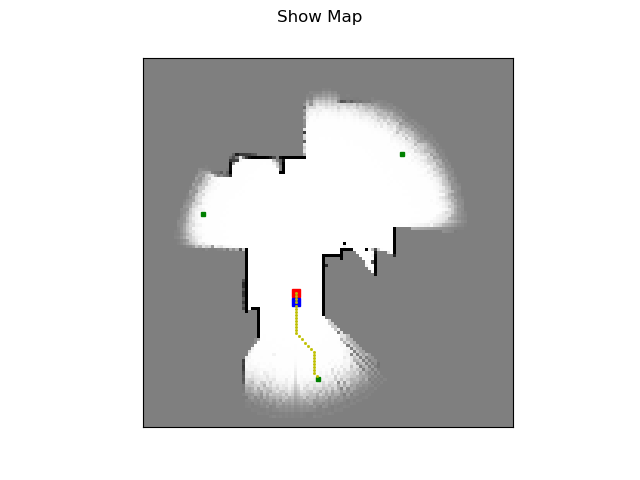
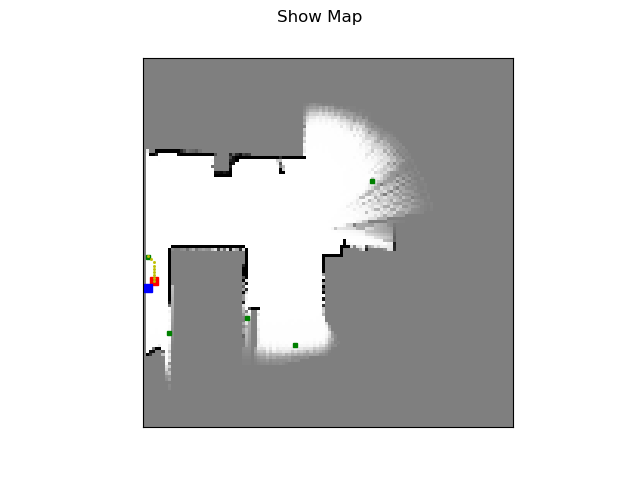
Fixed the out of indexing problem when the bresenham lines get out of the probability grid. TODO: Collision avoidance

Changed region(s): [[0.4688, 0.1875, 0.7188, 0.5625], [0.2188, 0.3125, 0.4375, 0.7812], [0.375, 0.5625, 0.5938, 0.8438]]

diff --git a/mrds_test_python3.py b/mrds_test_python3.py
@@ -54,7 +54,7 @@ if __name__ == '__main__':
 
     c_space = Cspace(-60, -60, 60, 60, cell_size)
     bayes_map = Bayesian(c_space.occupancy_grid)
-    map = ShowMap(c_space.grid_nr_rows, c_space.grid_nr_columns, showGUI)
+    map = ShowMap(c_space.grid_nr_rows, c_space.grid_nr_cols, showGUI)
     robot_sensing = robotSensing()
     frontier_calculator = Frontier_calculator()
     path_planner = PathPlanner()
@@ -95,10 +95,9 @@ if __name__ == '__main__':
             # Get all the Bresenham lines
             bresenham_lines = robot_sensing.get_bresenham_lines(robot_coord, sensor_readout_coordinates)
 
-
-
             for bresenham_line in bresenham_lines:
-                bayes_map.bayes_handler(bresenham_line, robot_row, robot_col)
+                bayes_map.bayes_handler(bresenham_line, robot_row, robot_col, c_space.get_grid_nr_rows(),
+                                        c_space.get_grid_nr_cols())
                 """
                 for coordinate in bresenham_line:
                     #pos_to_grid(coordinate[0], coordinate[1], c_space.x_min, c_space.y_max, cell_size)
@@ -137,14 +136,14 @@ if __name__ == '__main__':
                 carrot_coordinate = pure_pursuit.get_carrot_point(path, robot_coord, look_ahead_distance)
 
                 if carrot_coordinate:
-                    # Transform coorinates system to vehicle coordinate system
-                    VCS = pure_pursuit.tranform_to_vcs(robot_coord, carrot_coordinate)
+                    # Transform coordinates system to vehicle coordinate system
+                    vcs = pure_pursuit.tranform_to_vcs(robot_coord, carrot_coordinate)
 
                     # Calculate the curvature of the circular arc
-                    curvature = pure_pursuit.calculate_curvature(VCS[0], VCS[1])
+                    curvature = pure_pursuit.calculate_curvature(vcs[0], vcs[1])
 
                     # Calculate angular speed
-                    angularSpeed = 4*curvature * linear_speed
+                    angularSpeed = 6*curvature * linear_speed
 
                     # Apply angular and linear speed to the vehicle
                     post_speed(angularSpeed, linear_speed)

diff --git a/deliberativeLayer/cartographer/map_info.py b/deliberativeLayer/cartographer/map_info.py
@@ -13,7 +13,7 @@ class Cspace:
         :param y2: y coordinate of top left corner of the area to explore
         :param scale: resolution, i.e the number of cspace cells per real world meter
         """
-        # The size of the cell in CSPACE
+        # The size of the cell in c_space
         self.cell_size = cell_size
         # The scaling needed to comply with the cell size
         self.scale = 1 / cell_size
@@ -32,13 +32,13 @@ class Cspace:
 
         # Get number of grid rows and column
         self.grid_nr_rows = int(self.c_space_width * self.scale)
-        self.grid_nr_columns = int(self.c_space_height * self.scale)
+        self.grid_nr_cols = int(self.c_space_height * self.scale)
 
         # Create probability grid
-        self.occupancy_grid = np.ones(shape=(self.grid_nr_rows, self.grid_nr_columns)) * 0.5
+        self.occupancy_grid = np.ones(shape=(self.grid_nr_rows, self.grid_nr_cols)) * 0.5
 
     def is_within_grid(self, x, y):
-        return 0 <= x < self.grid_nr_rows and 0 <= y < self.grid_nr_columns
+        return 0 <= x < self.grid_nr_rows and 0 <= y < self.grid_nr_cols
 
     def neighbour(self, coords):
         row = coords[0]
@@ -54,3 +54,9 @@ class Cspace:
 
                 neighbours.append(neighbour)
         return neighbours
+
+    def get_grid_nr_rows(self):
+        return self.grid_nr_rows
+
+    def get_grid_nr_cols(self):
+        return self.grid_nr_cols

diff --git a/bayes/Bayesian.py b/bayes/Bayesian.py
@@ -15,7 +15,7 @@ class Bayesian:
         self.robot_row = 0
         self.robot_col = 0
 
-    def bayes_handler(self, bresenham_line, robot_row, robot_col):
+    def bayes_handler(self, bresenham_line, robot_row, robot_col, max_rows, max_cols):
         """
 
         :param bresenham_line:
@@ -36,13 +36,16 @@ class Bayesian:
 
         for i in range(0, len(bresenham_line)):
 
+
             # Update probability for a cell to be occupied
             prob_grid_x = int(bresenham_line[i][0])
             prob_grid_y = int(bresenham_line[i][1])
-            prob_grid = (prob_grid_x, prob_grid_y)
-            # Calculate probability for a cell to be occupied
-            p_occupied = self.bayes_rule(sensor, prob_grid)
-            self.prob_grid[prob_grid_x][prob_grid_y] = p_occupied
+            if prob_grid_x < max_rows and prob_grid_y < max_cols and prob_grid_x > 0 and prob_grid_y > 0:
+                prob_grid = (prob_grid_x, prob_grid_y)
+                # Calculate probability for a cell to be occupied
+                p_occupied = self.bayes_rule(sensor, prob_grid)
+                self.prob_grid[prob_grid_x][prob_grid_y] = p_occupied
+
 
     def bayes_rule(self, sensor_cell, grid_cell):
         """
